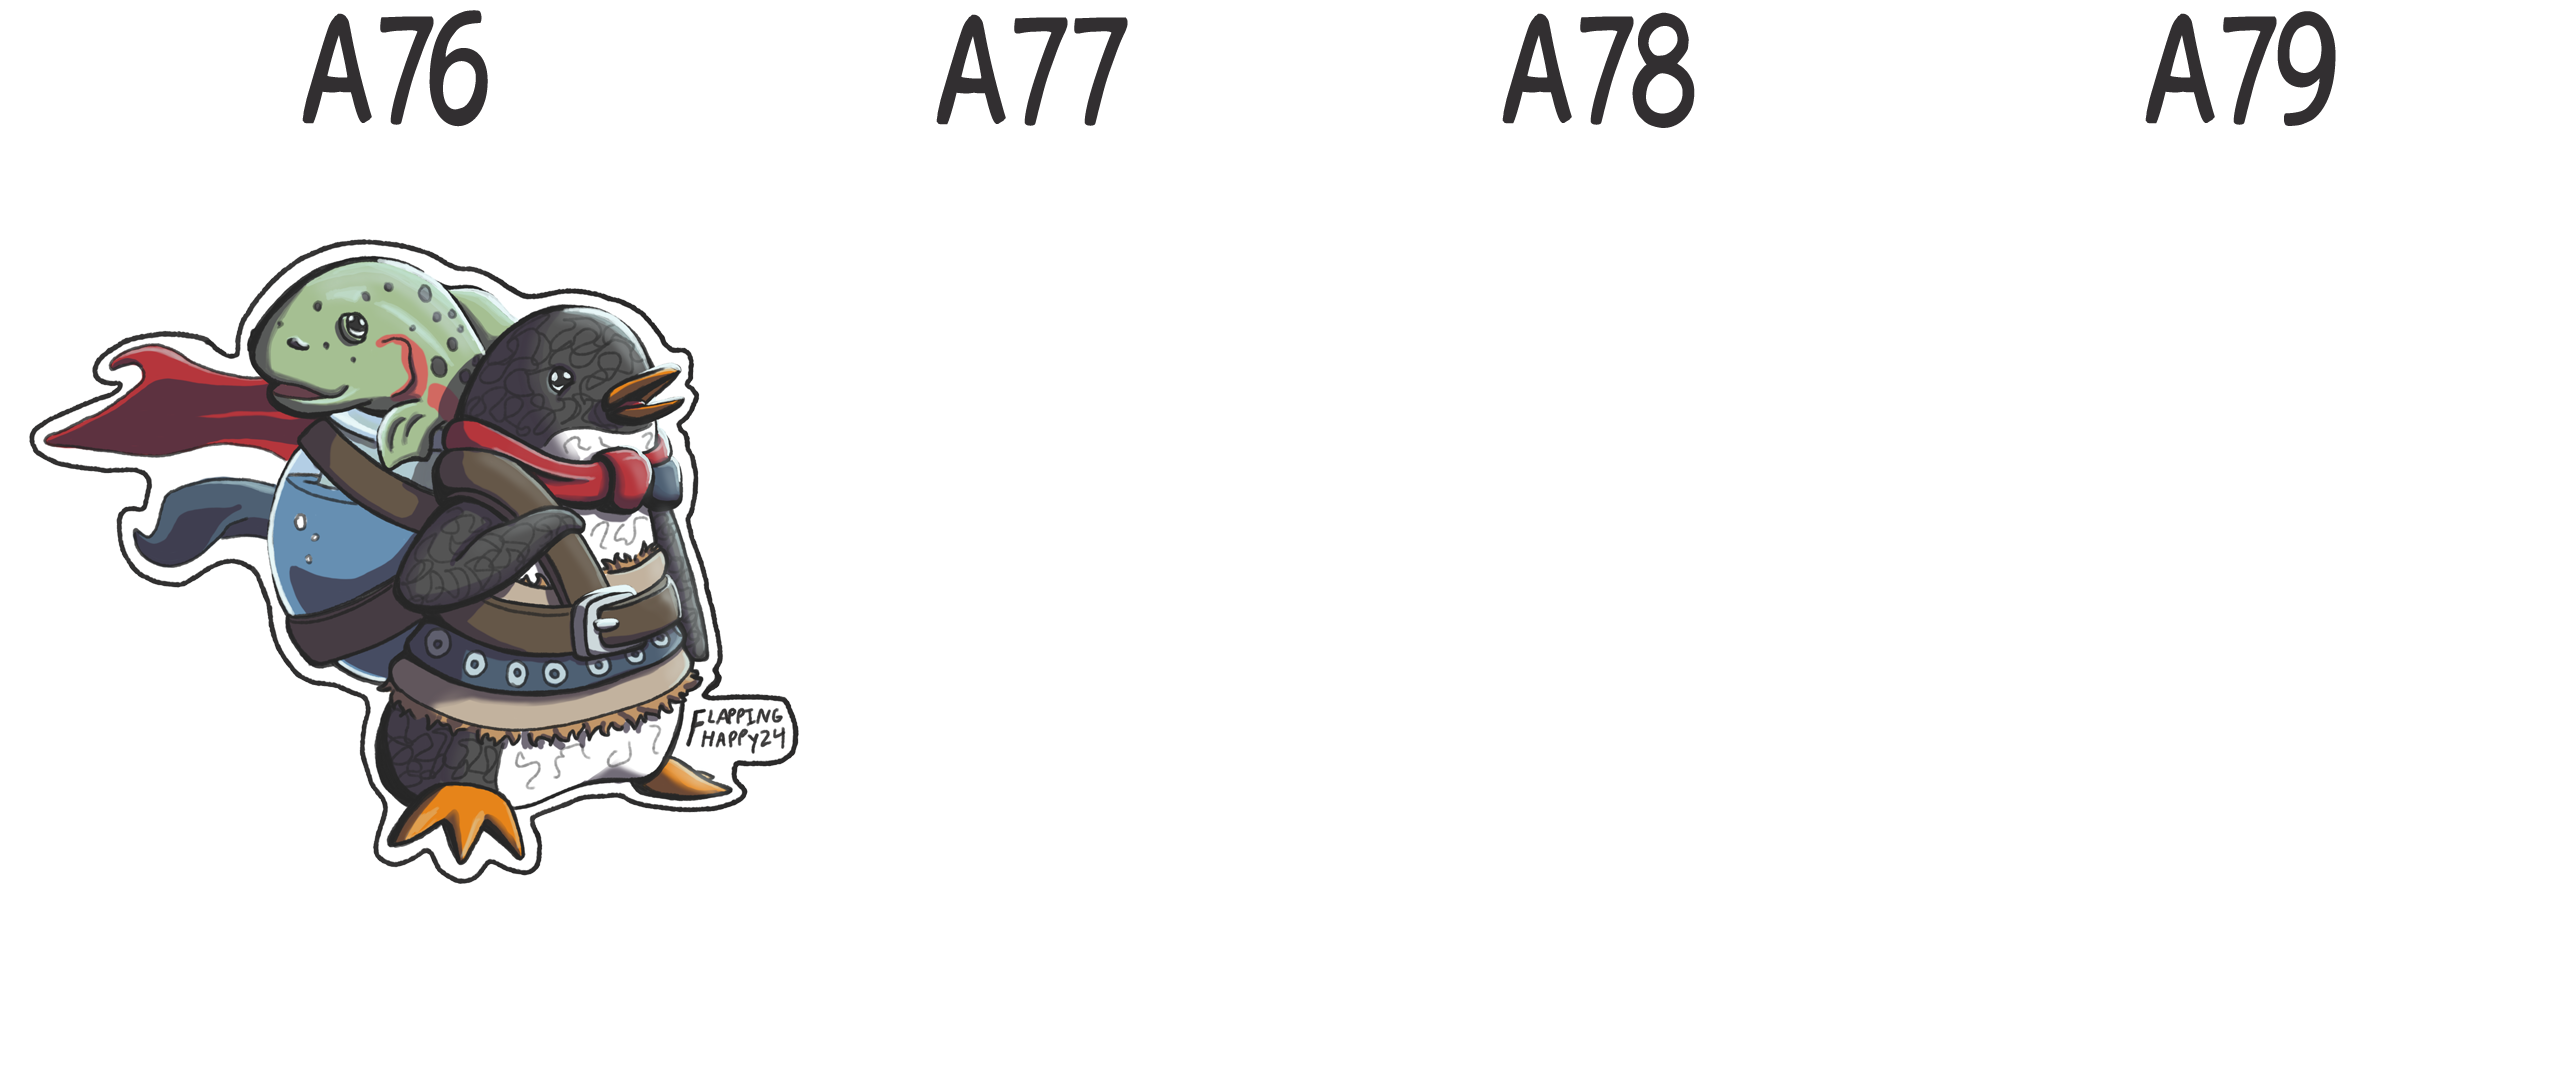
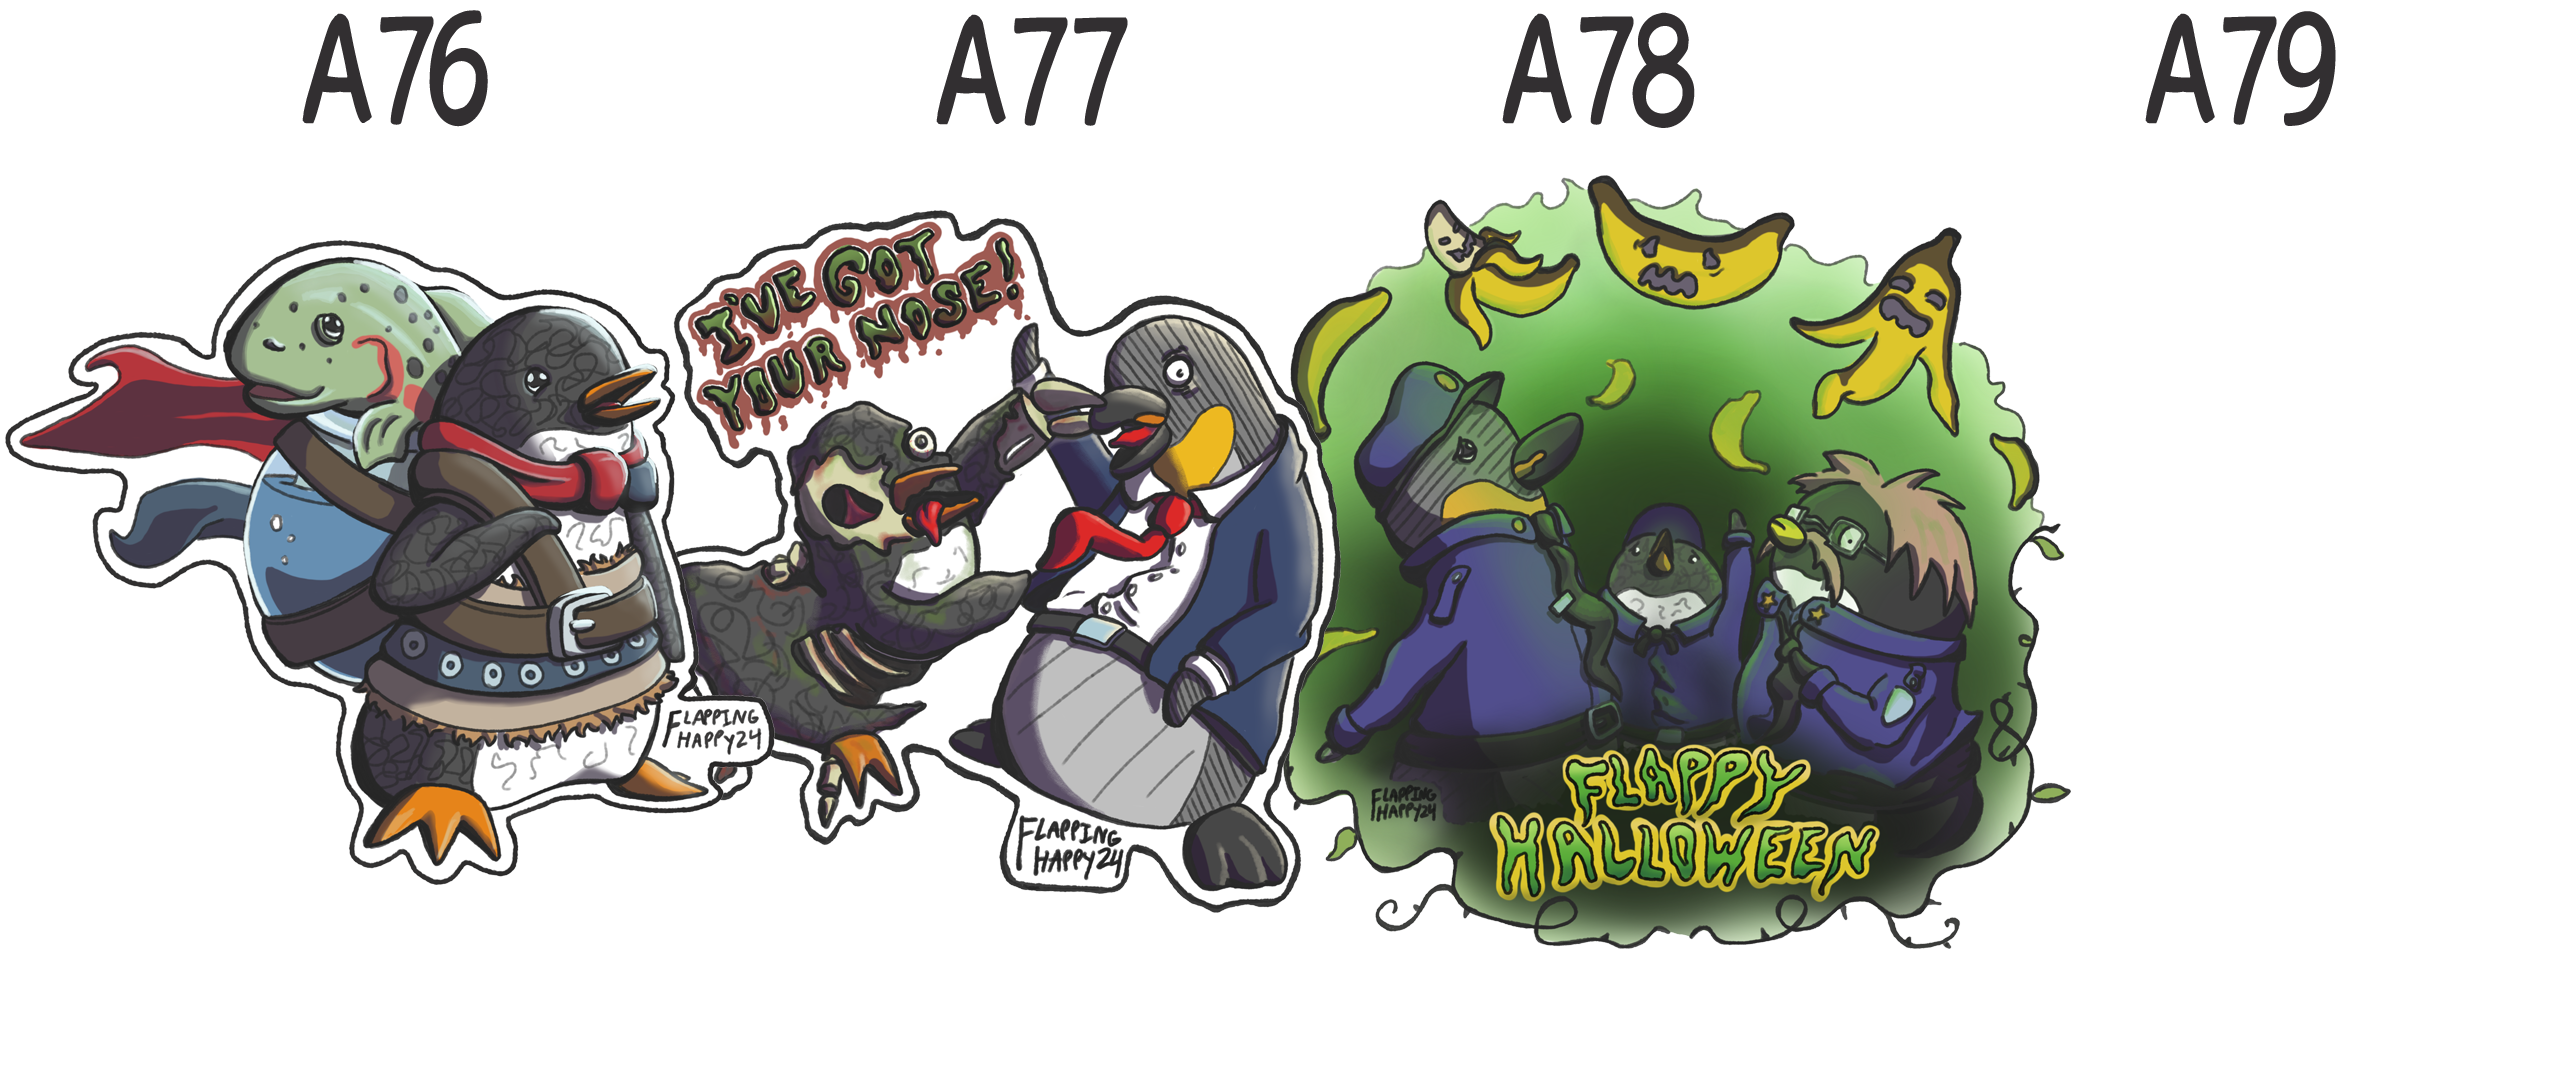
Add files via upload

diff --git a/shop.html b/shop.html
@@ -158,6 +158,8 @@
 						<option value="A074">A74</option>
 						<option value="A075">A75</option>
 						<option value="A076">A76</option>
+						<option value="A077">A77</option>
+						<option value="A078">A78</option>
 						
 					</select>
 					<br><br>
@@ -313,6 +315,8 @@
 						<option value="A074">A74</option>
 						<option value="A075">A75</option>
 						<option value="A076">A76</option>
+						<option value="A077">A77</option>
+						<option value="A078">A78</option>
 						<option value="S001">S1</option>
 						<option value="S002">S2</option>
 						<option value="S003">S3</option>
@@ -449,6 +453,8 @@
 						<option value="A074">A74</option>
 						<option value="A075">A75</option>
 						<option value="A076">A76</option>
+						<option value="A077">A77</option>
+						<option value="A078">A78</option>
 						
 					</select>
 					<br><br>
